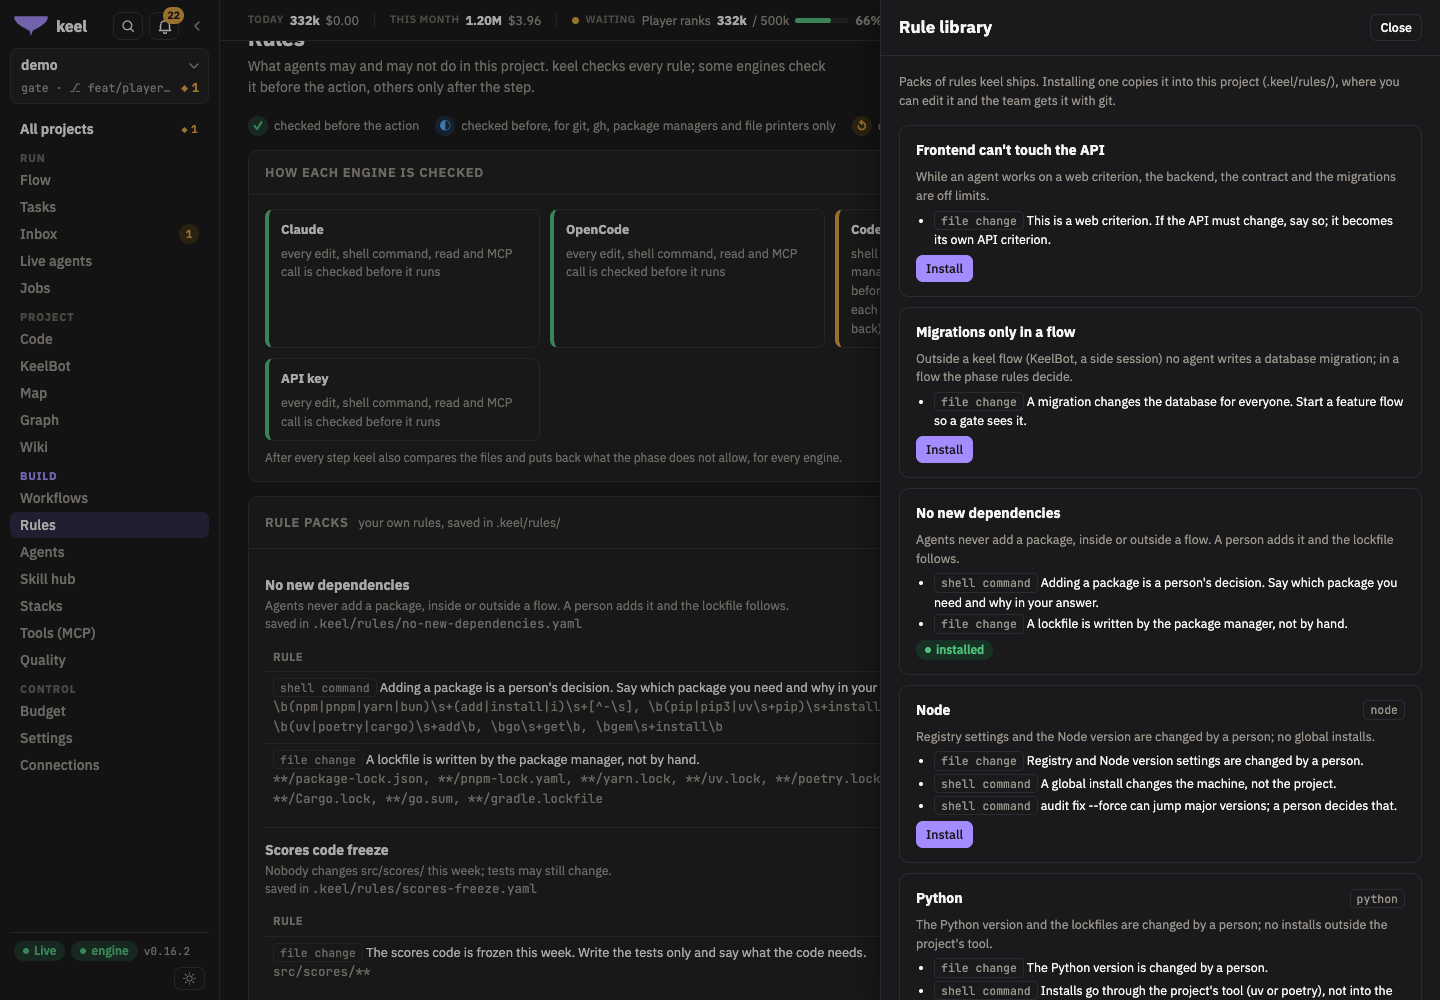
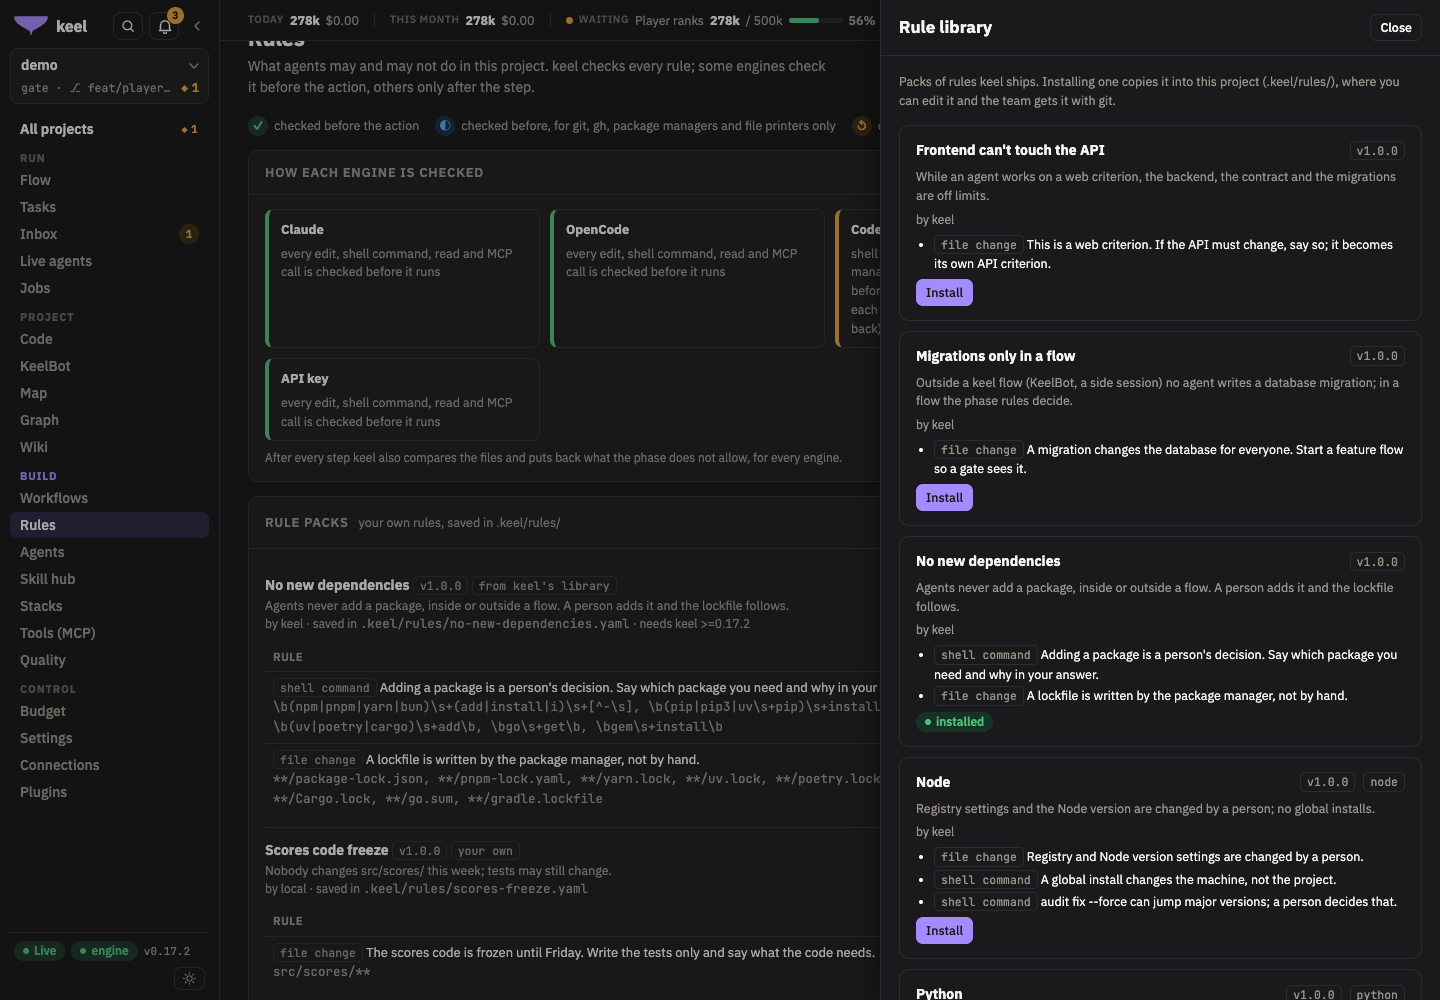
Rules 0.17.2: real check on its own volume, screenshots from 0.17.2

diff --git a/docs/plans/0.17.2.md b/docs/plans/0.17.2.md
@@ -162,3 +162,18 @@ Open items:
 - Codex hook: not seen live (needs a codex login in a lab, and the trust-bypass flag this session may not run on the
   host). The hook reads several tool-name shapes; the diff guard stays the backstop.
 - An installed pack is an uncommitted file: a flow start asks to commit it first (the toast says so).
+
+## Outcome after the merge onto 0.17.0 (2026-10-16)
+
+- Merged `origin/main` (0.17.0, `6d3ea9e`) into the branch; version 0.17.2 in the six places. The Rules page is a core
+  page in `web/src/corePages.ts`; the 0.17 settings sections lost the dead `keel_rules`; plugin settings keys are kept.
+- Final pack format, `.installed.json`, the `rule-packs` routes and the keel2 volume fix (decisions 18–22).
+- Tests: engine 1006, api `test` green (+ `pluginTest`, `productTest`), web 574, plugin engines all green, keel Product
+  engine 15, web builds (core, plugins, product), `scripts/test-keel2-volume.sh` 8/8, `docker/tests/keel2.test.sh`,
+  no-v1 strict, shellcheck.
+- Real check on 0.17.2: `KEEL_NAME=keel-lab KEEL_VOLUME=keel-lab-data PORT=8097`, mounts checked (keel-lab-data only).
+  Library install by name + version (source library), a file install (source file), the same again → 409; a
+  marketplace-style install of strict-secrets 1.0.0, 1.1.0 without `replace` → 409, with `replace` → 1.1.0; edit, export
+  (`scores-freeze-1.0.0.rules.yaml`), dry-run (13 calls, 1 refused), uninstall. The fake implementer's
+  `src/scores/ac_1.py` in GREEN was refused before the action. Screenshots in `docs/pictures/0.17.2/` are from this run.
+  Container, volume, image and scratch removed.
